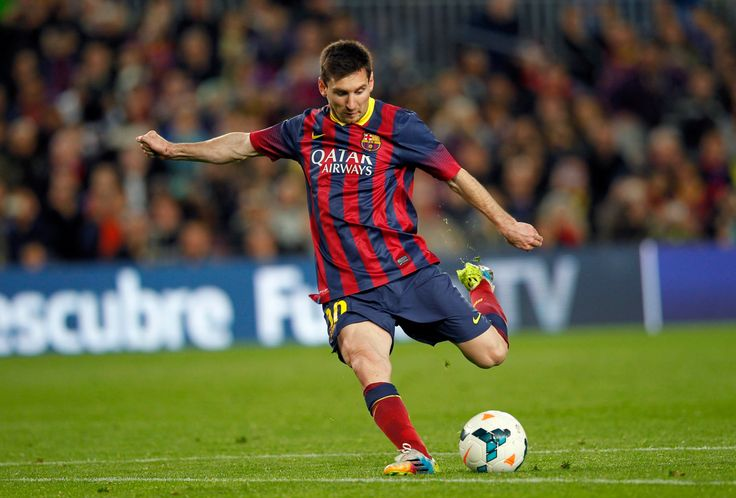
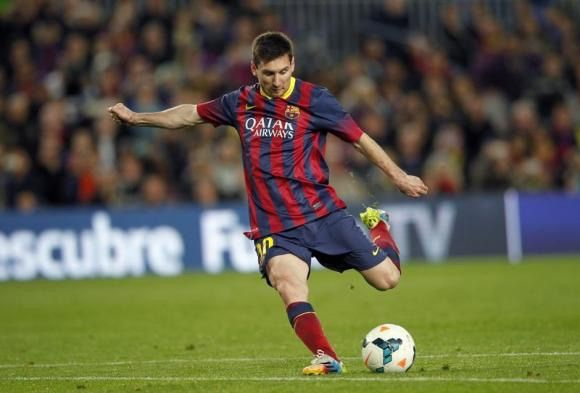
Update: Applied NMS function for avoiding overlaping detections on a single object, plus added a way to draw the bbox of a single class object

diff --git a/main.py b/main.py
@@ -1,14 +1,14 @@
 import os
 import cv2
 import numpy as np
-from util import get_outputs, draw
+from util import get_outputs, draw, NMS
 
 # define constants
 model_cfg_path = os.path.join('.', 'model', 'cfg', 'yolov3.cfg')
 model_weights_path = os.path.join('.', 'model', 'weights', 'yolov3.weights')
 class_names_path = os.path.join('.', 'model', 'class.names')
 
-img_path =  os.path.join('.', 'assets', 'messi_ball.jpg')
+img_path =  os.path.join('.', 'assets', 'messi_ball_2.jpg')
 
 # open class.names, read each line and save it into list class_names
 with open(class_names_path, 'r') as file:
@@ -42,16 +42,44 @@ for detection in detections:
   bbox = [int(xc * W), int(yc * H), int(w * W), int(h * H)]
 
   bbox_score = detection[4]
-  class_id = np.argmax(detection[5:]) # save the INDEX of the heigher detection
+  class_id = np.argmax(detection[5:]) # save the INDEX of the heigher detection; the index count of detection[5:] will start at 0, not at 5, so if the first detection is a person, it will be saved a 0, which is the index from 'detection[5:]'
   score = np.amax(detection[5:]) # save the VALUE of the heigher detection
-  # append all the collected data to the global lists
+
+  # append all the collected data to the general lists
   bboxes.append(bbox)
   class_ids.append(class_id)
   scores.append(score)
+
+# aply NMS; subtract the unnecessary detections for the same object
+bboxes, class_ids, scores = NMS(bboxes, class_ids, scores)
+
+# plot the image with bbox and name object
+for bbox_, bbox in enumerate(bboxes):
+  name_position = class_ids[bbox_]
+  name = class_names[name_position]
+  print(name)
+
+  xc, yc, w, h = bbox
+
+  img = cv2.rectangle(img, 
+                      (int(xc - (w / 2)),  (int(yc - (h / 2)))), 
+                      (int(xc + (w / 2)),  (int(yc + (h / 2)))), 
+                      (255, 0, 0), 3)
   
-# plotting the imgage with the results 
-for bbox in bboxes:
-  img = draw(bbox, img)
+  img = cv2.putText(img, '{}'.format(name),  
+                    (int(xc - (w / 2)),  int(yc - (h / 2)) - 15), 
+                    cv2.FONT_HERSHEY_SIMPLEX, 
+                    0.7, (58, 193, 242), 2)
+
+# plotting the imgage with the results
+# for bbox_, bbox in enumerate(bboxes):
+  # getting the names of the objects detected
+  # position_class_id = class_ids[bbox_]
+  # object_name = class_names[position_class_id]
+
+  # if(object_name =="sports ball"):
+  #   print("yes")
+  #   img = draw(bbox, img)
 
 cv2.imshow('img', img)
 cv2.waitKey(0)
